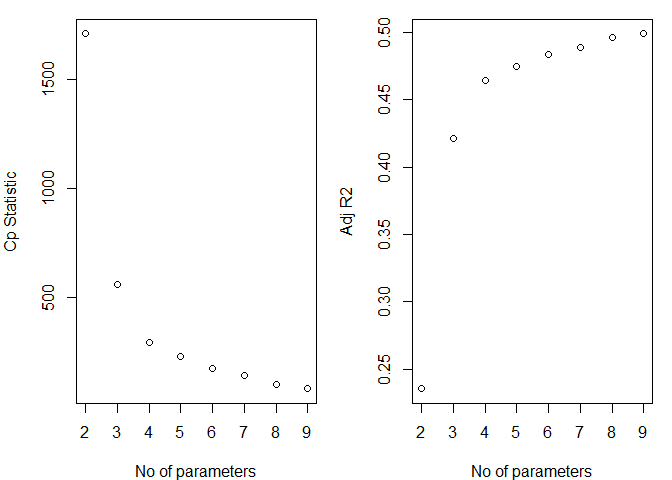
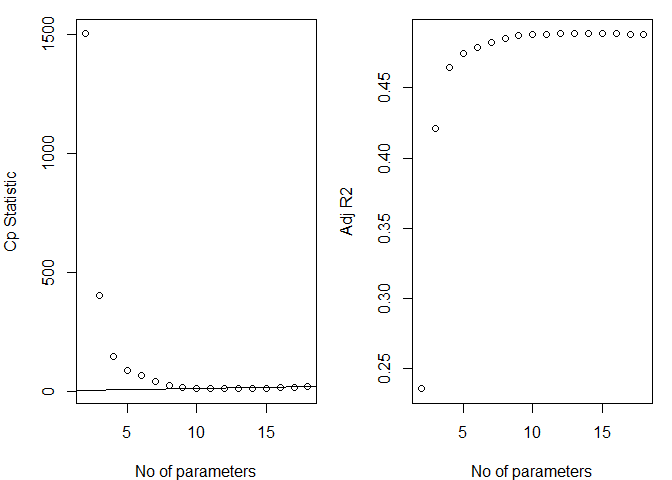
change 10 to 18

diff --git a/Exploratory.md b/Exploratory.md
@@ -668,3 +668,339 @@ raw_data=cancer_df %>%
 -   Then we remove "binned\_inc" and "birth\_rate" because ?????
 -   "avg\_deaths\_per\_year", "avg\_ann\_count" and "pop\_est2015" are highly correlated. The last three steps show that we should choose avg\_ann\_count, because the p-value is the smallest, showing significant relation between target\_death\_rate and avg\_ann\_count.
 -   Finally we plan to choose at least one variable from each category. We fit each variables in MLR and find the variable with small p-value. Finally we get 17 variables left and get raw\_data.
+
+### stepwise
+
+``` r
+model1 <- lm(target_death_rate ~ ., data=raw_data)
+step(model1, direction='backward')%>%
+summary()
+```
+
+    ## Start:  AIC=18229.32
+    ## target_death_rate ~ avg_ann_count + incidence_rate + med_income + 
+    ##     poverty_percent + study_per_cap + median_age_male + median_age_female + 
+    ##     avg_household_size + pct_hs25_over + pct_bach_deg25_over + 
+    ##     pct_unemployed16_over + pct_emp_priv_coverage + pct_white + 
+    ##     pct_black + pct_asian + pct_other_race + pct_married_households
+    ## 
+    ##                          Df Sum of Sq     RSS   AIC
+    ## - median_age_male         1        29 1194018 18227
+    ## - pct_emp_priv_coverage   1        34 1194023 18227
+    ## - pct_asian               1        56 1194045 18228
+    ## - study_per_cap           1        66 1194055 18228
+    ## - avg_household_size      1       212 1194201 18228
+    ## - median_age_female       1       245 1194234 18228
+    ## - med_income              1       490 1194479 18229
+    ## - pct_black               1       738 1194727 18229
+    ## <none>                                1193989 18229
+    ## - pct_white               1      1065 1195054 18230
+    ## - avg_ann_count           1      1964 1195953 18232
+    ## - pct_married_households  1      5888 1199877 18242
+    ## - pct_unemployed16_over   1      7824 1201813 18247
+    ## - poverty_percent         1     10294 1204283 18254
+    ## - pct_hs25_over           1     11177 1205166 18256
+    ## - pct_other_race          1     15362 1209351 18266
+    ## - pct_bach_deg25_over     1     36450 1230439 18319
+    ## - incidence_rate          1    298094 1492083 18906
+    ## 
+    ## Step:  AIC=18227.4
+    ## target_death_rate ~ avg_ann_count + incidence_rate + med_income + 
+    ##     poverty_percent + study_per_cap + median_age_female + avg_household_size + 
+    ##     pct_hs25_over + pct_bach_deg25_over + pct_unemployed16_over + 
+    ##     pct_emp_priv_coverage + pct_white + pct_black + pct_asian + 
+    ##     pct_other_race + pct_married_households
+    ## 
+    ##                          Df Sum of Sq     RSS   AIC
+    ## - pct_emp_priv_coverage   1        27 1194045 18226
+    ## - pct_asian               1        55 1194073 18226
+    ## - study_per_cap           1        64 1194082 18226
+    ## - avg_household_size      1       215 1194233 18226
+    ## - med_income              1       485 1194503 18227
+    ## - pct_black               1       719 1194737 18227
+    ## <none>                                1194018 18227
+    ## - pct_white               1      1077 1195095 18228
+    ## - median_age_female       1      1818 1195836 18230
+    ## - avg_ann_count           1      1951 1195969 18230
+    ## - pct_married_households  1      5905 1199923 18240
+    ## - pct_unemployed16_over   1      7800 1201818 18245
+    ## - poverty_percent         1     10501 1204519 18252
+    ## - pct_hs25_over           1     11156 1205174 18254
+    ## - pct_other_race          1     15340 1209358 18264
+    ## - pct_bach_deg25_over     1     36857 1230875 18318
+    ## - incidence_rate          1    298079 1492097 18904
+    ## 
+    ## Step:  AIC=18225.47
+    ## target_death_rate ~ avg_ann_count + incidence_rate + med_income + 
+    ##     poverty_percent + study_per_cap + median_age_female + avg_household_size + 
+    ##     pct_hs25_over + pct_bach_deg25_over + pct_unemployed16_over + 
+    ##     pct_white + pct_black + pct_asian + pct_other_race + pct_married_households
+    ## 
+    ##                          Df Sum of Sq     RSS   AIC
+    ## - pct_asian               1        47 1194092 18224
+    ## - study_per_cap           1        70 1194115 18224
+    ## - avg_household_size      1       224 1194269 18224
+    ## - med_income              1       472 1194517 18225
+    ## <none>                                1194045 18226
+    ## - pct_black               1       867 1194912 18226
+    ## - pct_white               1      1331 1195377 18227
+    ## - avg_ann_count           1      1969 1196014 18229
+    ## - median_age_female       1      2109 1196154 18229
+    ## - pct_married_households  1      5912 1199958 18239
+    ## - pct_unemployed16_over   1      7970 1202016 18244
+    ## - poverty_percent         1     11159 1205205 18252
+    ## - pct_hs25_over           1     11763 1205808 18253
+    ## - pct_other_race          1     15319 1209364 18262
+    ## - pct_bach_deg25_over     1     37730 1231775 18318
+    ## - incidence_rate          1    302501 1496546 18912
+    ## 
+    ## Step:  AIC=18223.59
+    ## target_death_rate ~ avg_ann_count + incidence_rate + med_income + 
+    ##     poverty_percent + study_per_cap + median_age_female + avg_household_size + 
+    ##     pct_hs25_over + pct_bach_deg25_over + pct_unemployed16_over + 
+    ##     pct_white + pct_black + pct_other_race + pct_married_households
+    ## 
+    ##                          Df Sum of Sq     RSS   AIC
+    ## - study_per_cap           1        67 1194159 18222
+    ## - avg_household_size      1       218 1194310 18222
+    ## - med_income              1       580 1194673 18223
+    ## <none>                                1194092 18224
+    ## - pct_black               1      1092 1195184 18224
+    ## - pct_white               1      1662 1195754 18226
+    ## - avg_ann_count           1      1956 1196049 18227
+    ## - median_age_female       1      2105 1196198 18227
+    ## - pct_married_households  1      6010 1200102 18237
+    ## - pct_unemployed16_over   1      7965 1202057 18242
+    ## - poverty_percent         1     11416 1205508 18251
+    ## - pct_hs25_over           1     11723 1205815 18251
+    ## - pct_other_race          1     15465 1209557 18261
+    ## - pct_bach_deg25_over     1     37693 1231785 18316
+    ## - incidence_rate          1    302512 1496604 18910
+    ## 
+    ## Step:  AIC=18221.76
+    ## target_death_rate ~ avg_ann_count + incidence_rate + med_income + 
+    ##     poverty_percent + median_age_female + avg_household_size + 
+    ##     pct_hs25_over + pct_bach_deg25_over + pct_unemployed16_over + 
+    ##     pct_white + pct_black + pct_other_race + pct_married_households
+    ## 
+    ##                          Df Sum of Sq     RSS   AIC
+    ## - avg_household_size      1       212 1194371 18220
+    ## - med_income              1       603 1194762 18221
+    ## <none>                                1194159 18222
+    ## - pct_black               1      1095 1195255 18223
+    ## - pct_white               1      1685 1195844 18224
+    ## - avg_ann_count           1      1991 1196150 18225
+    ## - median_age_female       1      2088 1196247 18225
+    ## - pct_married_households  1      5953 1200113 18235
+    ## - pct_unemployed16_over   1      7960 1202120 18240
+    ## - poverty_percent         1     11548 1205707 18249
+    ## - pct_hs25_over           1     11778 1205937 18250
+    ## - pct_other_race          1     15447 1209606 18259
+    ## - pct_bach_deg25_over     1     37872 1232031 18315
+    ## - incidence_rate          1    303189 1497348 18909
+    ## 
+    ## Step:  AIC=18220.3
+    ## target_death_rate ~ avg_ann_count + incidence_rate + med_income + 
+    ##     poverty_percent + median_age_female + pct_hs25_over + pct_bach_deg25_over + 
+    ##     pct_unemployed16_over + pct_white + pct_black + pct_other_race + 
+    ##     pct_married_households
+    ## 
+    ##                          Df Sum of Sq     RSS   AIC
+    ## - med_income              1       675 1195046 18220
+    ## <none>                                1194371 18220
+    ## - pct_black               1      1206 1195577 18221
+    ## - pct_white               1      1877 1196248 18223
+    ## - avg_ann_count           1      1959 1196329 18223
+    ## - median_age_female       1      2625 1196995 18225
+    ## - pct_married_households  1      5743 1200114 18233
+    ## - pct_unemployed16_over   1      8298 1202669 18239
+    ## - pct_hs25_over           1     11784 1206155 18248
+    ## - poverty_percent         1     11924 1206294 18249
+    ## - pct_other_race          1     15311 1209681 18257
+    ## - pct_bach_deg25_over     1     38154 1232525 18314
+    ## - incidence_rate          1    303682 1498053 18909
+    ## 
+    ## Step:  AIC=18220.02
+    ## target_death_rate ~ avg_ann_count + incidence_rate + poverty_percent + 
+    ##     median_age_female + pct_hs25_over + pct_bach_deg25_over + 
+    ##     pct_unemployed16_over + pct_white + pct_black + pct_other_race + 
+    ##     pct_married_households
+    ## 
+    ##                          Df Sum of Sq     RSS   AIC
+    ## <none>                                1195046 18220
+    ## - pct_black               1      1247 1196293 18221
+    ## - avg_ann_count           1      1777 1196823 18223
+    ## - pct_white               1      2579 1197625 18225
+    ## - median_age_female       1      3518 1198564 18227
+    ## - pct_married_households  1      5074 1200119 18231
+    ## - pct_unemployed16_over   1      8944 1203989 18241
+    ## - pct_hs25_over           1     11504 1206550 18247
+    ## - poverty_percent         1     14541 1209587 18255
+    ## - pct_other_race          1     15247 1210293 18257
+    ## - pct_bach_deg25_over     1     39071 1234117 18316
+    ## - incidence_rate          1    308930 1503976 18919
+
+    ## 
+    ## Call:
+    ## lm(formula = target_death_rate ~ avg_ann_count + incidence_rate + 
+    ##     poverty_percent + median_age_female + pct_hs25_over + pct_bach_deg25_over + 
+    ##     pct_unemployed16_over + pct_white + pct_black + pct_other_race + 
+    ##     pct_married_households, data = raw_data)
+    ## 
+    ## Residuals:
+    ##      Min       1Q   Median       3Q      Max 
+    ## -113.855  -11.308   -0.144   11.205  140.652 
+    ## 
+    ## Coefficients:
+    ##                          Estimate Std. Error t value Pr(>|t|)    
+    ## (Intercept)             1.128e+02  9.782e+00  11.527  < 2e-16 ***
+    ## avg_ann_count          -5.983e-04  2.816e-04  -2.124 0.033711 *  
+    ## incidence_rate          1.980e-01  7.070e-03  28.010  < 2e-16 ***
+    ## poverty_percent         6.236e-01  1.026e-01   6.077 1.38e-09 ***
+    ## median_age_female      -2.350e-01  7.862e-02  -2.989 0.002821 ** 
+    ## pct_hs25_over           4.897e-01  9.060e-02   5.405 6.97e-08 ***
+    ## pct_bach_deg25_over    -1.340e+00  1.345e-01  -9.961  < 2e-16 ***
+    ## pct_unemployed16_over   7.023e-01  1.474e-01   4.766 1.97e-06 ***
+    ## pct_white              -1.267e-01  4.952e-02  -2.559 0.010539 *  
+    ## pct_black              -8.936e-02  5.021e-02  -1.780 0.075247 .  
+    ## pct_other_race         -7.779e-01  1.250e-01  -6.223 5.55e-10 ***
+    ## pct_married_households -2.913e-01  8.116e-02  -3.590 0.000336 ***
+    ## ---
+    ## Signif. codes:  0 '***' 0.001 '**' 0.01 '*' 0.05 '.' 0.1 ' ' 1
+    ## 
+    ## Residual standard error: 19.84 on 3035 degrees of freedom
+    ## Multiple R-squared:  0.4906, Adjusted R-squared:  0.4887 
+    ## F-statistic: 265.7 on 11 and 3035 DF,  p-value: < 2.2e-16
+
+### cp and adjusted R
+
+``` r
+b<-regsubsets(target_death_rate ~ ., data=raw_data, nvmax = 30)
+   (rs<-summary(b))
+```
+
+    ## Subset selection object
+    ## Call: regsubsets.formula(target_death_rate ~ ., data = raw_data, nvmax = 30)
+    ## 17 Variables  (and intercept)
+    ##                        Forced in Forced out
+    ## avg_ann_count              FALSE      FALSE
+    ## incidence_rate             FALSE      FALSE
+    ## med_income                 FALSE      FALSE
+    ## poverty_percent            FALSE      FALSE
+    ## study_per_cap              FALSE      FALSE
+    ## median_age_male            FALSE      FALSE
+    ## median_age_female          FALSE      FALSE
+    ## avg_household_size         FALSE      FALSE
+    ## pct_hs25_over              FALSE      FALSE
+    ## pct_bach_deg25_over        FALSE      FALSE
+    ## pct_unemployed16_over      FALSE      FALSE
+    ## pct_emp_priv_coverage      FALSE      FALSE
+    ## pct_white                  FALSE      FALSE
+    ## pct_black                  FALSE      FALSE
+    ## pct_asian                  FALSE      FALSE
+    ## pct_other_race             FALSE      FALSE
+    ## pct_married_households     FALSE      FALSE
+    ## 1 subsets of each size up to 17
+    ## Selection Algorithm: exhaustive
+    ##           avg_ann_count incidence_rate med_income poverty_percent
+    ## 1  ( 1 )  " "           " "            " "        " "            
+    ## 2  ( 1 )  " "           "*"            " "        " "            
+    ## 3  ( 1 )  " "           "*"            " "        "*"            
+    ## 4  ( 1 )  " "           "*"            " "        "*"            
+    ## 5  ( 1 )  " "           "*"            " "        "*"            
+    ## 6  ( 1 )  " "           "*"            " "        "*"            
+    ## 7  ( 1 )  " "           "*"            " "        "*"            
+    ## 8  ( 1 )  " "           "*"            " "        "*"            
+    ## 9  ( 1 )  "*"           "*"            " "        "*"            
+    ## 10  ( 1 ) "*"           "*"            "*"        "*"            
+    ## 11  ( 1 ) "*"           "*"            " "        "*"            
+    ## 12  ( 1 ) "*"           "*"            "*"        "*"            
+    ## 13  ( 1 ) "*"           "*"            "*"        "*"            
+    ## 14  ( 1 ) "*"           "*"            "*"        "*"            
+    ## 15  ( 1 ) "*"           "*"            "*"        "*"            
+    ## 16  ( 1 ) "*"           "*"            "*"        "*"            
+    ## 17  ( 1 ) "*"           "*"            "*"        "*"            
+    ##           study_per_cap median_age_male median_age_female
+    ## 1  ( 1 )  " "           " "             " "              
+    ## 2  ( 1 )  " "           " "             " "              
+    ## 3  ( 1 )  " "           " "             " "              
+    ## 4  ( 1 )  " "           " "             " "              
+    ## 5  ( 1 )  " "           " "             " "              
+    ## 6  ( 1 )  " "           " "             " "              
+    ## 7  ( 1 )  " "           " "             " "              
+    ## 8  ( 1 )  " "           " "             "*"              
+    ## 9  ( 1 )  " "           " "             "*"              
+    ## 10  ( 1 ) " "           " "             "*"              
+    ## 11  ( 1 ) " "           " "             "*"              
+    ## 12  ( 1 ) " "           " "             "*"              
+    ## 13  ( 1 ) " "           " "             "*"              
+    ## 14  ( 1 ) "*"           " "             "*"              
+    ## 15  ( 1 ) "*"           " "             "*"              
+    ## 16  ( 1 ) "*"           " "             "*"              
+    ## 17  ( 1 ) "*"           "*"             "*"              
+    ##           avg_household_size pct_hs25_over pct_bach_deg25_over
+    ## 1  ( 1 )  " "                " "           "*"                
+    ## 2  ( 1 )  " "                " "           "*"                
+    ## 3  ( 1 )  " "                " "           "*"                
+    ## 4  ( 1 )  " "                " "           "*"                
+    ## 5  ( 1 )  " "                " "           "*"                
+    ## 6  ( 1 )  " "                "*"           "*"                
+    ## 7  ( 1 )  " "                "*"           "*"                
+    ## 8  ( 1 )  " "                "*"           "*"                
+    ## 9  ( 1 )  " "                "*"           "*"                
+    ## 10  ( 1 ) " "                "*"           "*"                
+    ## 11  ( 1 ) " "                "*"           "*"                
+    ## 12  ( 1 ) " "                "*"           "*"                
+    ## 13  ( 1 ) "*"                "*"           "*"                
+    ## 14  ( 1 ) "*"                "*"           "*"                
+    ## 15  ( 1 ) "*"                "*"           "*"                
+    ## 16  ( 1 ) "*"                "*"           "*"                
+    ## 17  ( 1 ) "*"                "*"           "*"                
+    ##           pct_unemployed16_over pct_emp_priv_coverage pct_white pct_black
+    ## 1  ( 1 )  " "                   " "                   " "       " "      
+    ## 2  ( 1 )  " "                   " "                   " "       " "      
+    ## 3  ( 1 )  " "                   " "                   " "       " "      
+    ## 4  ( 1 )  " "                   " "                   " "       " "      
+    ## 5  ( 1 )  "*"                   " "                   " "       " "      
+    ## 6  ( 1 )  "*"                   " "                   " "       " "      
+    ## 7  ( 1 )  "*"                   " "                   " "       " "      
+    ## 8  ( 1 )  "*"                   " "                   " "       " "      
+    ## 9  ( 1 )  "*"                   " "                   " "       " "      
+    ## 10  ( 1 ) "*"                   " "                   " "       " "      
+    ## 11  ( 1 ) "*"                   " "                   "*"       "*"      
+    ## 12  ( 1 ) "*"                   " "                   "*"       "*"      
+    ## 13  ( 1 ) "*"                   " "                   "*"       "*"      
+    ## 14  ( 1 ) "*"                   " "                   "*"       "*"      
+    ## 15  ( 1 ) "*"                   " "                   "*"       "*"      
+    ## 16  ( 1 ) "*"                   "*"                   "*"       "*"      
+    ## 17  ( 1 ) "*"                   "*"                   "*"       "*"      
+    ##           pct_asian pct_other_race pct_married_households
+    ## 1  ( 1 )  " "       " "            " "                   
+    ## 2  ( 1 )  " "       " "            " "                   
+    ## 3  ( 1 )  " "       " "            " "                   
+    ## 4  ( 1 )  " "       "*"            " "                   
+    ## 5  ( 1 )  " "       "*"            " "                   
+    ## 6  ( 1 )  " "       "*"            " "                   
+    ## 7  ( 1 )  " "       "*"            "*"                   
+    ## 8  ( 1 )  " "       "*"            "*"                   
+    ## 9  ( 1 )  " "       "*"            "*"                   
+    ## 10  ( 1 ) " "       "*"            "*"                   
+    ## 11  ( 1 ) " "       "*"            "*"                   
+    ## 12  ( 1 ) " "       "*"            "*"                   
+    ## 13  ( 1 ) " "       "*"            "*"                   
+    ## 14  ( 1 ) " "       "*"            "*"                   
+    ## 15  ( 1 ) "*"       "*"            "*"                   
+    ## 16  ( 1 ) "*"       "*"            "*"                   
+    ## 17  ( 1 ) "*"       "*"            "*"
+
+``` r
+par(mar=c(4,4,1,1))
+par(mfrow=c(1,2))
+
+plot(2:18, rs$cp, xlab="No of parameters", ylab="Cp Statistic")
+abline(0,1)
+
+plot(2:18, rs$adjr2, xlab="No of parameters", ylab="Adj R2")
+```
+
+![](Exploratory_files/figure-markdown_github/unnamed-chunk-3-1.png) From the plot of Cp, points from four to ten all lie on the line, indicating subsets with these number of variables all doing good job. Also, from plot of R square, subsets with number of 4 to 10 variables are are doing well as well. Thus, for parcimony, we decide to choose the subsets with four variables, which are incidence\_rate, poverty\_percent, avg\_ann\_count, and pct\_hs25\_over.
